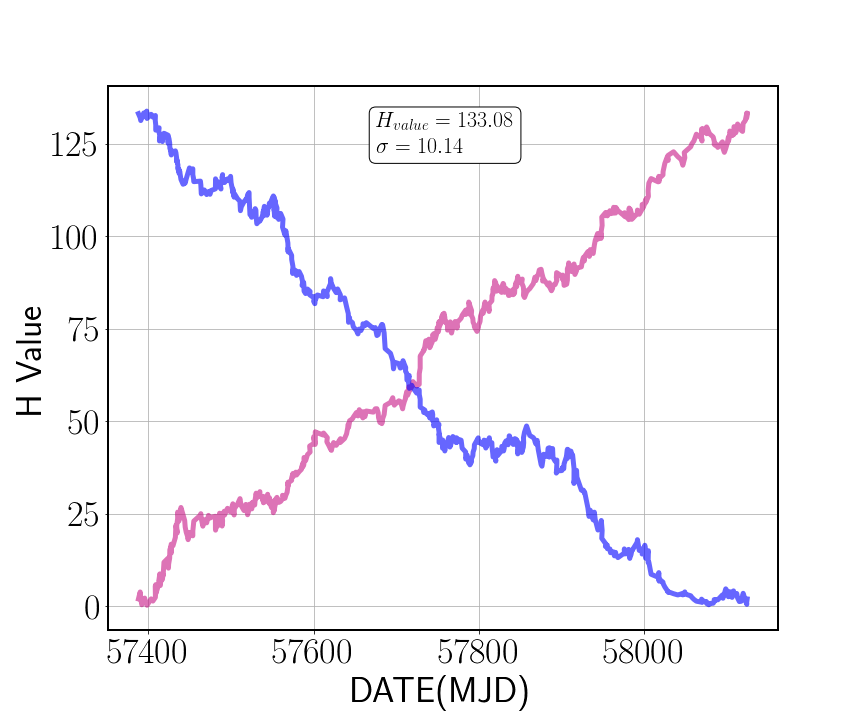
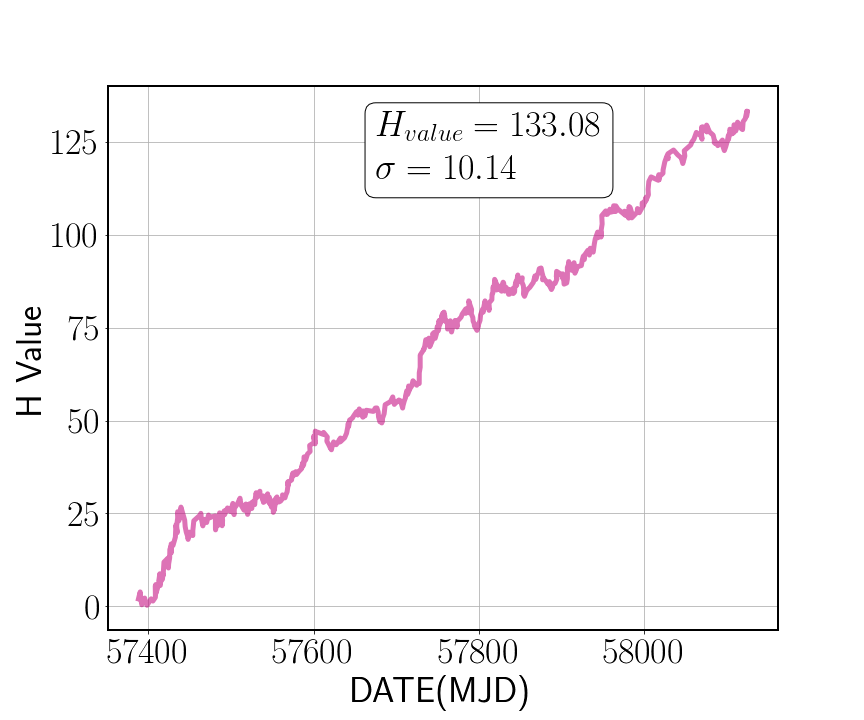
Updates from Overleaf

diff --git a/skeleton.tex b/skeleton.tex
@@ -5,7 +5,8 @@
 \documentclass{PoS}
 \usepackage{subfig}
 \everymath{\displaystyle}
-
+\usepackage{lineno}
+\linenumbers
 \title{Gamma-ray Pulsars with DAMPE}
 
 \ShortTitle{Gamma-ray Pulsars with DAMPE}
@@ -22,13 +23,14 @@
         Purple Mountain Observatory, Nanjing, China}
 \author{Zhao-Qiang Shen\\
         Purple Mountain Observatory, Nanjing, China}
-\author{on behalf of the DAMPE collaboration}
+\author{on behalf of the DAMPE collaboration\footnote{for collaboration list see PoS(ICRC2019)1177}}
+
 
 %\author{Another Author\\
 %        Affiliation\\
 %        E-mail: \email{...}}
 
-\abstract{The DArk Matter Particle Explorer (DAMPE) is a satellite-borne experiment successfully launched in December 2015.  DAMPE has been taking data for over 3.5 years during which it has been observing the full gamma-ray sky above 1 GeV. The data used for this contribution considers the first 2 years of data and within an energy range from 2 GeV to 100 GeV.   Among all the pulsars observed by DAMPE we will present the measurement results for the 10 brightest gamma-ray pulsars which include Vela, Geminga and Crab. The light curves and energy spectra, including the phase averaged energy spectra will be presented for these 10 pulsars. From these results we will derive the timing precision of DAMPE, which is of importance for its other scientific goals, as well as the potential for future gamma-ray studies with DAMPE.}
+\abstract{The DArk Matter Particle Explorer (DAMPE) is a satellite-borne experiment successfully launched in December 2015.  DAMPE has been taking data for over 3.5 years during which it has been observing the full gamma-ray sky above 1 GeV. The data used for this contribution considers the first 2 years of data within an energy range from 2 GeV to 100 GeV.   Among all the pulsars observed by DAMPE we will present the measurement results for the 5 brightest gamma-ray pulsars which include Vela, Geminga and Crab. The light curves and energy spectra, including the phase averaged energy spectra will be presented for these 5 pulsars. From these results we will derive the timing precision of DAMPE, which is of importance for its other scientific goals, as well as the potential for future gamma-ray studies with DAMPE.}
 
 \FullConference{36th International Cosmic Ray Conference -ICRC2019-\\
 		July 24th - August 1st, 2019\\
@@ -36,27 +38,22 @@
 
 
 \begin{document}
-
-%\section{Introduction}
-
-%Pulsars importance introduction
-
 \section{Introduction}
 
 
 The DArk Matter Particle Explorer (DAMPE) is China's first astronomical satellite launched the 17th of December 2015. DAMPE has been successfully taking data for over 3.5 years.
 The satellite has a sun-synchronous orbit at an altitude of  500 km and  has a period of 95 minutes i.e. 15 orbits per day.
 The instrument consists of four sub-detectors, from top to bottom: A Plastic Scintillator Detector (PSD) used as an anti-coincidence shield for photon identification and for charge measurement of heavy ions.
-A Silicon TracKer(STK) composed by six double layers of silicon: the first three layers are inter-layered  by a tungsten layer to promote pair conversion of gamma-rays.  A BGO Calorimeter for energy measurements and separation of electromagnetic/hadronic showers with a depth of $\sim 32$ radiations lengths. Finally a NeUtron Detector (NUD) for  hadronic identification \cite{dampe_mission}.
+A Silicon TracKer (STK) composed by six double layers of silicon: the first three layers are inter-layered  by a tungsten foil to promote pair conversion of gamma-rays.  A BGO Calorimeter for energy measurements and separation of electromagnetic/hadronic showers with a depth of $\sim 32$ radiations lengths. Finally a NeUtron Detector (NUD) for  hadronic identification \cite{dampe_mission}.
 
 One of the main scientific objectives of DAMPE is the detection and study of  high energy gamma-rays (above 1 GeV). One of the first detailed gamma-ray study using the DAMPE data focuses on pulsars. Pulsars are highly magnetized rotating neutron stars of great interest because of their characteristics. The time  properties of pulsars makes them very reliable sources for timing calibration. The observation of Pulsars by DAMPE contributes to two key calibration points of the instrument, the confirmation of gamma-ray detection and the  evaluation of the time  performance in DAMPE.
-Previous searches of pulsars  in  $\gamma$-rays  with space-based experiments have been made for example  with   EGRET,AGILE and  FERMI\cite{2catalogfermi}, the latter still contributing to the discovery of $\gamma$-ray pulsars.
+Previous searches of pulsars  in  $\gamma$-rays  with space-based experiments have been made for example  with   EGRET, AGILE and  FERMI\cite{2catalogfermi}, the latter still contributing to the discovery of $\gamma$-ray pulsars.
 
 
 \section{Data Selection}
 \label{selection}
 
-In a previous paper  a method for resolving gamma-ray events detected by DAMPE has been presented \cite{zunlei}, nevertheless for this work a different selection has been used. The reason for using a different selection is to increase our signal statistics at low energies to improve the detection of pulsars. As explained before, pulsars have a a very characteristics light curve and emission occurs at a defined known periodicity different  for each pulsar, therefore if the events detected are mistagged as photons they will over-all not contribute to the pulsar light curve measurements. Instead these events will smear-out into the background. Therefore for pulsar analysis a photon selection with a relatively higher electron contamination is permissible.
+In a previous paper  a method for resolving gamma-ray events detected by DAMPE has been presented \cite{zunlei}, nevertheless for this work a different selection has been used. The reason for using a different selection is to increase our signal statistics at low energies to improve the detection of pulsars. As explained before, pulsars have a a very characteristic light curve and emission occurs at a defined known periodicity different  for each pulsar. Therefore if the events detected are mistagged as photons they will over-all not contribute to the pulsar light curve measurements. Instead these events will smear-out into the background. Therefore for pulsar analysis a photon selection with a relatively higher electron contamination is permissible.
 The steps for the gamma-ray identification are similar to those presented in \cite{zunlei},
 \begin{enumerate}
 	\item electron/proton separation: Using the BGO to search for characteristics signatures of electronic and hadronic shower, the objective is to reject hadrons. Knowing that $\sim 98\%$ of primary cosmic rays are hadrons it is important to reject them as first step.
@@ -66,7 +63,7 @@ The steps for the gamma-ray identification are similar to those presented in \ci
 
 \end{enumerate}
 
-On top of the steps for photon identification, quality cuts are applied. First, events that cross the South Atlantic Anomaly are rejected. Lastly, the DAMPE instrument has a complex trigger system and an interacting particle can trigger one or more triggers, differentiation of this triggers is also taken into consideration. For this work we will focus on the Low Energy Trigger (LET) and the High Energy Trigger (HET). The HET has no pre-scale and as its name suggest is more efficient at higher energies. The LET is pre-scaled, meaning only a fraction of the events are stored,  and it varies depending on the position of the DAMPE with respect to Earth. The Low Energy Trigger has a lenient logic than the High Energy Trigger and therefore it has a pre-scaling dependent on the latitude, where for the low latitudes from -20 to 20 the pre-scale is set to 8 and for the other latitudes the pre-scale corresponds to 64.
+On top of the steps for photon identification, quality cuts are applied. First, events that cross the South Atlantic Anomaly are rejected. Lastly, the DAMPE instrument has a complex trigger system and an interacting particle can trigger one or more triggers, differentiation of this triggers is also taken into consideration. For this work we will focus on the Low Energy Trigger (LET) and the High Energy Trigger (HET). The HET has no pre-scale and as its name suggest is more efficient at higher energies. The LET is pre-scaled, meaning only a fraction of the events are stored,  and it varies depending on the position of the DAMPE with respect to Earth. The Low Energy Trigger has a more lenient logic than the High Energy Trigger and therefore it has a pre-scaling dependent on the latitude, where for the low latitudes from -20 to 20 the pre-scale is set to 8 and for the other latitudes the pre-scale corresponds to 64.
 
 
 %using the properties of the PSD as  an anti-coincidence  shield and further looking in the calorimeter for the signature  hadronic and electromagnetic showers to reject charge  firstly heavy ions.  Further for electron separation we search for  events that leave no track in the  STK before  the first tungsten layers therefore looking only for converted  photons.
@@ -110,13 +107,14 @@ In this section the methods applied  to data for the light-curve calculation and
 
 
 \subsection{Pulsars Folding}
-The different ways to detect a pulsar are dependent on the acceptance of the instrument and on its orbit. In the case of DAMPE we do a search based on known pulsars and  then use timing models calculated by other experiments, normally in different wavelength such as radio,x-ray or even gamma  rays. The pulsar timing solutions (ephemerides) of interest in this work were all provided by David A. Smith (Private Communication, 2017).
+The different ways to detect a pulsar depend on the acceptance of the instrument and its orbit. In the case of DAMPE we do a search based on known pulsars and  then use timing models calculated by other experiments, normally in different wavelength such as radio, x-ray or even gamma  rays. The pulsar timing solutions (ephemerides) of interest in this work were all provided by David A. Smith (Private Communication).
 
 %The algorithm to arrive to this is described in the diagram sown in Figure \ref{steps_pulsars}, in the previous the photon selection is explained. The  next step is to select the events of interests  depending on their position, for this we use the known position of sources and first apply a $3 \times 3  \text{ deg} ^2$ window around it.
 
-From the data selected as explained in the previous section, we select events of interest for each pulsars, around their known position. The required information includes the timestamp and position of the satellite where each event is detected, and the known position in the sky for the different sources, this position is given by other experiments mainly radio searches.
-This subset is then barycentered, meaning we convert the DAMPE timestamps that are given in Mission Elapsed Time (MET) to Coordinated Universal Time (UTC) to finally convert to Barycentric Dynamical Time (TDB) this is done to correct for relativistic effects related  to  time dilatation this time variations are very small but important and consider effects such as Jupiter's and the sun's orbit. To do this it is important  to have precise arrival time stamps of the photons detected and its geographical coordinates. The position of the known source also need to be precise, therefore proper motion i.e. motion of the pulsar is also considered.
-Finally we  fold the TDB times with the ephemerides given by other experiments, this last step is done using the TEMPO2 software package \cite{tempo2}.   The reason to use this  type of software is that the pulsars are considered to be decelerating and this can be modeled giving rotation parameters that can be applied later  to different experiments, nevertheless the  rotation parameters can be very complex for different  pulsars in particular of those that undergo "glitches" irregular changes in the rotation parameters and TEMPO2 validity has been widely proved \cite{2catalogfermi} \cite{geminga_fermi}. Because of the need of time precision we also need to take into consideration leap seconds. Leap seconds are also taken into consideration, and since the start of the MET ($01/01/2013$) 2 leap seconds have been added.
+From the data selected as explained in the previous section, we make a sub-selection of events of interest for each pulsar. For this we search for events around the position of the pulsar of interest. The required information includes the timestamp and position of the satellite with respect to Earth where each event is detected. Precise position in the sky for the different sources is also needed, this position is given by other experiments mainly radio searches.
+This subset is then barycentered, meaning we convert the DAMPE timestamps that are given in Mission Elapsed Time (MET) to Coordinated Universal Time (UTC) to finally convert to Barycentric Dynamical Time (TDB). The conversion is necessary to correct for relativistic effects related  to  time dilatation this time variations are very small but important and takes into consideration effects such as Jupiter's and the Sun's orbit. To do this it is important  to have precise arrival time stamps of the photons detected and accurate position of DAMPE at each given time. This information comes from the on-board GPS.  The position of the known source also need to be accurate, therefore proper motion i.e. motion of the pulsar is also considered for the sources that require it. Because of the need of time precision and since GPS time doesn't consider leap seconds, we need to account for them as they happen. Since the start of the MET of DAMPE ($01/01/2013$) 2 leap seconds have been added.
+
+Finally we  fold the TDB times with the ephemerides given by other experiments. Pulsars are considered to be decelerating and this can be modeled giving rotation parameters, called the ephemerides, that can be applied to the data of different experiments. These rotation parameters can be very complex for different  pulsars in particular for those that undergo "glitches" (irregular changes in the rotation parameters). Because of the complexity of the ephemerides the folding procedure is done using the TEMPO2 software package \cite{tempo2}. The TEMPO2 software validity has been widely proved \cite{2catalogfermi} \cite{geminga_fermi}. 
 
 
 %Consider for timing  that GPS time  doesn't  contain leap seconds. Up to know  there are 37 leap seconds  that need to be added.
@@ -126,9 +124,8 @@ Finally we  fold the TDB times with the ephemerides given by other experiments, 
 Validation of the pulsars detection is required, for this we perform a statistical test that will  allows to understand the significance of  the pulsation, the statistical test used is called the H-test and it is widely used in the pulsar community.
 %The  second consist in a direct comparison with the Fermi experiment. Fermi is a dedicated $\gamma$-ray experiment  and has been in orbit for over  10 years,  during this time two pulsar catalogues have been published with over 100 pulsars, all of this with searches from 100 MeV to energies above 100 GeV.
 
-This test has the capability to evaluate both the timing model and the quality of the data used.  The H-test was presented for its application in the use of pulsars in 1989,a further  modification of this test was presented in \cite{h-test}.
-The test consists in searching for uniformity in the circle.  Meaning the search for  periodicity on  a phase. From the H-Test we obtain an H-Value that can be translated to a probability.
-Once the we can determine that there is pulsation, we also need to verify the shape of the pulsation, for this we use the results from \cite{2catalogfermi}, and in the energy band of interest our results seem to be consistent.  
+This test has the capability to evaluate both the timing model and the quality of the data used.  The H-test was presented for its application in the use of pulsars in 1989, a further  modification of this test was presented in \cite{h-test}.
+The test consists of searching for uniformity in the circular time periods, in other words evaluating the flatness as a function of the phase.  Meaning the search for  periodicity on  a phase. From the H-Test we obtain an H-Value that can be translated to a probability. This can be used to determine that there is pulsation, we also need to verify the shape of the pulsation, for this we use the results from \cite{2catalogfermi}, and in the energy band of interest our results seem to be consistent. For more details on the method the reader is referred to \cite{h-test}. 
 
 
 
@@ -145,7 +142,7 @@ From the  events detected we require to convert them between the measured distri
 \end{equation} 
 where the generation area will depend on the  MC and depending on the MC we use, the integration on the solid angle will also vary. The effective Area results can be observed on Figure \ref{eff_area}.
     \item Point Spread Function PSF $(\delta\theta;E,\theta)$, characterizes the error in the reconstruction of the direction $\delt \theta=\theta'-\theta $. Where $\theta'$ and $\theta$ are the reconstructed incoming angle and the true incoming angle respectively.
-    \item Energy Redistribution Function $ERF (E';E,\theta)$, For the energy redistribution function we define the measured energy as function of the true energy and true incoming angle ($\theta$). Once this is done, the correction is applied by using a Bayesian iterative method, where the response matrix is obtained from the normalize redistribution function.
+    \item Energy Redistribution Function $ERF (E';E,\theta)$, For the energy redistribution function we define the measured energy as function of the true energy and true incoming angle ($\theta$). Once this is done, the correction is applied by using a Bayesian iterative method, where the response matrix is obtained from the normalized redistribution function.
     
 \end{itemize}
 
@@ -164,14 +161,14 @@ To produce the response we depend on reliable GEANT4 simulations of the instrume
 %The generation area will depend on the  MC and depending on the MC we use, the integration on the solid angle will also vary. The effective Area results can be observed on Figure \ref{eff_area}.
 
 
-Finally, we also need to calculate livetime of DAMPE. For this we applied a $ \pm 60^{\circ}$ window around the source of interest and collect the amount of seconds the DAMPE has spend in this area. The choice of the window is given by  Field of View of DAMPE at anytime as a result of the photon selection explained in section \ref{selection}.
+Finally, we also need to calculate the livetime of DAMPE. For this we applied a $ \pm 60^{\circ}$ window around the source of interest and collect the amount of seconds the DAMPE has spend pointing at this area. The choice of the window is given by  Field of View of DAMPE at anytime as a result of the photon selection explained in section \ref{selection}.
 
 
 \section{Results}
-In this  sections  the  results of the analyzed pulsars will be presented. At the moment more than 20 pulsars have been  studied with DAMPE data set, nevertheless here only five are presented. The pulsars presented for this work were selected based on the number of events detected for each pulsar. The chosen pulsars have collected the most photons in a  two year observation period within a ROI of $1^\circ$ around the known position of the source. However the analysis is applied  for a ROI of $3^\circ$,and for the folding of the pulsars we use 2 years of data, from the 1st of January 2016 till the 1st of January 2018.  Nevertheless for the  energy spectrum we use 39 months of data, from the 1st of January 2016 til the  31st of March 2019. The current limitation on the 2 years of data for the  light-curve calculation is due to the validity of the ephemerides.
+In this  sections  the  results of the analyzed pulsars will be presented. At the moment more than 20 pulsars have been  studied with DAMPE data set, here we only present the first five. The complete pulsar studies will be presented in a future publication.  The pulsars presented for this work were selected based on the number of events detected for each pulsar. The chosen pulsars have collected the higher number of photons in a  two year observation period within a ROI of $1^\circ$ around the known position of the source. However the analysis is applied  for a ROI of $3^\circ$, and for the folding of the pulsars we use 2 years of data, from the 1st of January 2016 till the 1st of January 2018.  Nevertheless for the  energy spectrum we use 39 months of data, from the 1st of January 2016 til the  31st of March 2019. The current limitation on the 2 years of data for the  light-curve calculation is due to the validity of the ephemerides.
 
 %% this area is too big to be able to determine if the detected photons are coming from one source or  multiple sources this is the case mainly when the source is located in the galactic plane,therefore a smaller area is consider to reduce the contamination by other sources.
- The reason for this is that  the background or other $\gamma$-ray sources will not contribute  to the phase shape but with a bigger window it increases our statistics that help us create more reliable  light curves. The five pulsars presented here, have a sigma greater than five, confirming the detection of the pulsation.
+ The reason for a ROI of $3^\circ$ is that the background or other $\gamma$-ray sources will not contribute  to the phase shape but with a bigger window it increases our statistics that help us create more reliable  light curves. The five pulsars presented here, have a sigma greater than five, confirming the detection of the pulsation.
 
 The five pulsars studied were Vela, Geminga, J1709-4429, Crab and J0007+73703, and the results of the analysis can be observed in Figures \ref{vela}, \ref{geminga}, \ref{j1709}, \ref{crab} and \ref{j0007} respectively.
 
@@ -179,27 +176,28 @@ The five pulsars studied were Vela, Geminga, J1709-4429, Crab and J0007+73703, a
 \begin{figure}
 \centering
 \subfloat[Light-curve]{\includegraphics [width=0.5\textwidth,, keepaspectratio]{J0835-4510phase_3deg.png}}
-\subfloat[Energy Flux]{\includegraphics [width=0.3\textwidth,, keepaspectratio]{flux_vela.png}}
-%%\hspace{\fill}
-%%\centering
-%\subfloat[]{\includegraphics [width=0.3\textwidth, keepaspectratio]{J0835-4510H_value_3deg.png}}
+\subfloat[Energy Flux]{\includegraphics [width=0.3\textwidth,, keepaspectratio]{flux_vela_wo_fermi.png}}
+\hspace{\fill}
+\centering
+\subfloat[H-Test]{\includegraphics [width=0.35\textwidth, keepaspectratio]{J0835-4510H_value_3deg.png}}
 \subfloat[2D Projection]{\includegraphics [width=0.3\textwidth, keepaspectratio]{J0835-4510position.png}}
 %\includegraphics[scale=0.7]{images/j0007.png}
-\caption{Results of the pulsar J0835-4510, a)  shows its characteristic  light curve. The pulsating detection has a $ \sigma =54.71$ b)Energy Spectrum as measured for this analysis by DAMPE in red from 2 GeV to 100 GeV. The blue points correspond to FERMI measurements taken from \cite{vela_fermi}, c) 2D projection of photons detected within a $ 3^{\circ}$ ROI around the pulsar of interest.}\label{vela}
+\caption{Results of the pulsar J0835-4510, a)  shows its characteristic  light curve. The pulsating detection has a $ \sigma =54.71$ b) Energy Spectrum as measured for this analysis by DAMPE in red from 2 GeV to 100 GeV, c) Plot showing the H-Value progression as a function of time, d) 2D projection of photons detected within a $ 3^{\circ}$ ROI around the pulsar of interest.}\label{vela}
 \end{figure}
+%he blue points correspond to FERMI measurements taken from \cite{vela_fermi},
 
 %%J0633+1746
 \begin{figure}
 \centering
 \subfloat[Phase information]{\includegraphics [width=0.5\textwidth,, keepaspectratio]{J0633+1746phase_3deg.png}}
-\subfloat[Energy Flux]{\includegraphics [width=0.3\textwidth,, keepaspectratio]{flux_J0633+1746.png}}
+%\subfloat[Energy Flux]{\includegraphics [width=0.3\textwidth,, keepaspectratio]{flux_J0633+1746.png}}
 %\hspace{\fill}
 %\centering
-%\subfloat[]{\includegraphics [width=0.3\textwidth, keepaspectratio]{J0633+1746H_value_3deg.png}}
+\subfloat[H-Test]{\includegraphics [width=0.35\textwidth, keepaspectratio]{J0633+1746H_value_3deg.png}}
 \subfloat[2D Projection]{\includegraphics [width=0.3\textwidth, keepaspectratio]{J0633+1746position.png}}
 %\includegraphics[scale=0.7]{images/j0007.png}
 
-\caption{Results of the pulsar J0633+1746 also known as Geminga, a)  shows its characteristic  light curve. b) Energy Spectrum from 2 GeV to 100 GeV, c) 2D projection of photons detected within a $ 3^{\circ}$ ROI around the pulsar of interest.}\label{geminga}
+\caption{Results of the pulsar J0633+1746 also known as Geminga, a)  shows its characteristic  light curve. b) Plot showing the H-Value progression as a function of time, c) 2D projection of photons detected within a $ 3^{\circ}$ ROI around the pulsar of interest.}\label{geminga}
 \end{figure}
 
 
@@ -207,13 +205,13 @@ The five pulsars studied were Vela, Geminga, J1709-4429, Crab and J0007+73703, a
 \begin{figure}
 %\centering
 \subfloat[Phase information]{\includegraphics [width=0.5\textwidth,, keepaspectratio]{J1709-4429phase_3deg.png}}
-\subfloat[Energy Flux]{\includegraphics [width=0.3\textwidth,, keepaspectratio]{flux_J1709-4429.png}}
+%\subfloat[Energy Flux]{\includegraphics [width=0.3\textwidth,, keepaspectratio]{flux_J1709-4429.png}}
 %\hspace{\fill}
 %\centering
-%\subfloat[]{\includegraphics [width=0.3\textwidth, keepaspectratio]{J1709-4429H_value_3deg.png}}
+\subfloat[H-Test]{\includegraphics [width=0.35\textwidth, keepaspectratio]{J1709-4429H_value_3deg.png}}
 \subfloat[2D Projection]{\includegraphics [width=0.3\textwidth, keepaspectratio]{J1709-4429position.png}}
 %\includegraphics[scale=0.7]{images/j0007.png}
-\caption{Results of the pulsar J1709-4429, a)  shows its characteristic  light curve. b) Energy Spectrum from 2 GeV to 100 GeV, c) 2D projection of photons detected within a $ 3^{\circ}$ ROI around the pulsar of interest.}\label{j1709}
+\caption{Results of the pulsar J1709-4429, a)  shows its characteristic  light curve. b) Plot showing the H-Value progression as a function of time, c) 2D projection of photons detected within a $ 3^{\circ}$ ROI around the pulsar of interest.}\label{j1709}
 \end{figure}
 
 
@@ -221,26 +219,26 @@ The five pulsars studied were Vela, Geminga, J1709-4429, Crab and J0007+73703, a
 \begin{figure}
 \centering
 \subfloat[Phase information]{\includegraphics [width=0.5\textwidth,, keepaspectratio]{J0534+2200phase_3deg.png}}
-\subfloat[Energy Flux]{\includegraphics [width=0.3\textwidth,, keepaspectratio]{flux_J0534+2200.png}}
+%\subfloat[Energy Flux]{\includegraphics [width=0.3\textwidth,, keepaspectratio]{flux_J0534+2200.png}}
 %\hspace{\fill}
 %\centering
-%\subfloat[]{\includegraphics [width=0.3\textwidth, keepaspectratio]{J0534+2200H_value_3deg.png}}
+\subfloat[H-Test]{\includegraphics [width=0.35\textwidth, keepaspectratio]{J0534+2200H_value_3deg.png}}
 \subfloat[2D Projection]{\includegraphics [width=0.3\textwidth, keepaspectratio]{J0534+2200position.png}}
 %\includegraphics[scale=0.7]{images/j0007.png}
-\caption{Results of the Crab (J0534+2200), a)  shows its characteristic  light curve. b) Energy Spectrum from 2 GeV to 100 GeV. For the energy spectrum we need to consider that this will also contain the nebula and not just the pulsar spectrum, c) 2D projection of photons detected within a $ 3^{\circ}$ ROI around the pulsar of interest.}\label{crab}
+\caption{Results of the Crab (J0534+2200), a)  shows its characteristic  light curve. b) Plot showing the H-Value progression as a function of time, c) 2D projection of photons detected within a $ 3^{\circ}$ ROI around the pulsar of interest.}\label{crab}
 \end{figure}
 
 %%J0007+7303
 \begin{figure}
 \centering
 \subfloat[Phase information]{\includegraphics [width=0.5\textwidth,, keepaspectratio]{J0007+7303phase_3deg.png}}
-\subfloat[Energy Flux]{\includegraphics [width=0.3\textwidth,, keepaspectratio]{flux_J0007+7303.png}}
+%\subfloat[Energy Flux]{\includegraphics [width=0.3\textwidth,, keepaspectratio]{flux_J0007+7303.png}}
 %\hspace{\fill}
 %\centering
-%\subfloat[]{\includegraphics [width=0.3\textwidth, keepaspectratio]{J0007+7303H_value_3deg.png}}
+\subfloat[H-Test]{\includegraphics [width=0.35\textwidth, keepaspectratio]{J0007+7303H_value_3deg.png}}
 \subfloat[2D Projection]{\includegraphics [width=0.3\textwidth, keepaspectratio]{J0007+7303position.png}}
 %\includegraphics[scale=0.7]{images/j0007.png}
-\caption{Results of the pulsar J0007+7303, a)  shows its characteristic  light curve. b) Energy Spectrum from 2 GeV to 100 GeV, c) 2D projection of photons detected within a $ 3^{\circ}$ ROI around the pulsar of interest.}
+\caption{Results of the pulsar J0007+7303, a)  shows its characteristic  light curve. b) Plot showing the H-Value progression as a function of time, c) 2D projection of photons detected within a $ 3^{\circ}$ ROI around the pulsar of interest.}
 \label{j0007}
 \end{figure}
 
@@ -248,7 +246,7 @@ The five pulsars studied were Vela, Geminga, J1709-4429, Crab and J0007+73703, a
 
 
 \section{Conclusions and future scope}
-With 24 months of  data, we showed DAMPE's ability to measure gamma-rays in an energy range from 1-100GeV.
+With 24 months of  data, we showed DAMPE's capability to measure gamma-rays in an energy range from 2-100GeV.
 We also show its timing capabilities for the identification and analysis of pulsars.
 In the future we aim to perform spectral analysis in the pulse and off-pulse regions, observe the evolution of light curves  as a function of energy.
 We also have shown the broad possibilities for research and study of gamma-ray sources such as the galactic plane, SNRs, AGNs, GRBs among others.
@@ -258,6 +256,7 @@ We also have shown the broad possibilities for research and study of gamma-ray s
 
 \section{Acknowledgements}
 MMS expresses her gratitude to David A. Smith for providing the ephemerides applied for this analysis along with invaluable discussions that have help further this work.
+%The DAMPE mission is funded by the strategic priority science and technology projects in space science of Chinese Academy of Sciences. In Europe it is supported by the Swiss National Science Foundation (SNSF) and the National Institute for Nuclear Physics (INFN), Italy.
 
 
 
